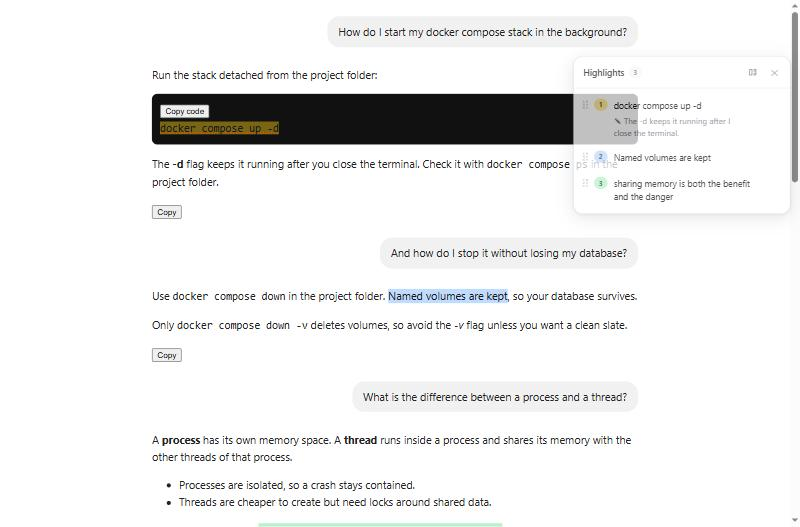
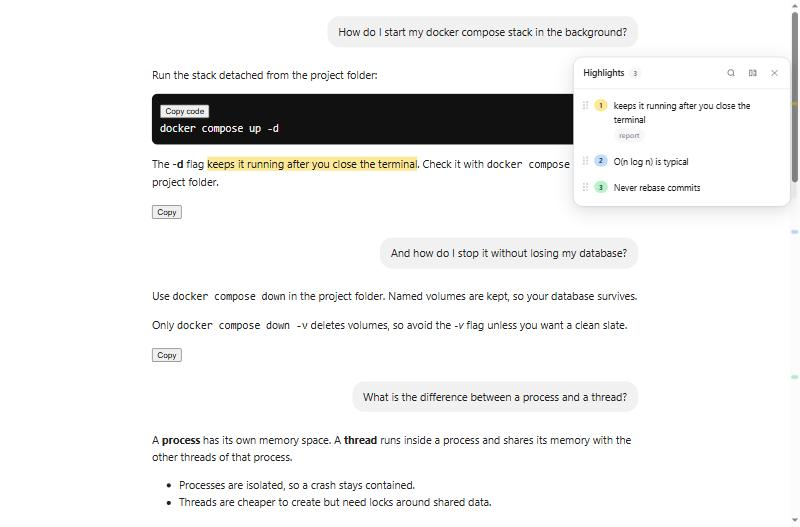
Add undo for deletes and highlight ticks beside the scrollbar
Deleting a highlight now shows "Deleted ... Undo" for a few seconds,
both in the page and in the library, and restores it with everything
intact.

A thin strip on the right edge shows where the highlights sit in the
page, with a box for the part on screen; clicking a tick jumps there.

diff --git a/src/content/controller.ts b/src/content/controller.ts
@@ -27,6 +27,7 @@ const JUMP_POLL_MS = 300;
 const LOAD_OLDER_STEPS = 12;
 const LOAD_OLDER_WAIT_MS = 400;
 const SEARCH_RESULTS = 8;
+const UNDO_MS = 7000;
 const MARK_HASH = '#bookmark=';
 // Approximate note card size, used to keep it on screen. Matches .cm-card in styles.css.
 const CARD_WIDTH = 300;
@@ -54,10 +55,24 @@ export interface NoteCardState {
   focusNote: boolean;
 }
 
+/** A highlight's place in the whole page, for the ticks beside the scrollbar. */
+export interface Tick {
+  id: string;
+  color: HighlightColor;
+  /** 0 at the top of the page, 1 at the bottom. */
+  at: number;
+  label: string;
+}
+
 export interface ViewState {
   conversationId: string | null;
   /** Highlights in the user's order. */
   items: PanelItem[];
+  ticks: Tick[];
+  /** Which slice of the page is on screen, as fractions, for the minimap. */
+  viewport: { top: number; height: number } | null;
+  /** A just-deleted highlight that can still be brought back. */
+  undo: { label: string } | null;
   /** Viewport position of the current text selection, when it can be highlighted. */
   selection: { top: number; bottom: number; left: number; streaming: boolean } | null;
   card: NoteCardState | null;
@@ -78,6 +93,9 @@ export class ChatmarksController {
   private state: ViewState = {
     conversationId: null,
     items: [],
+    ticks: [],
+    viewport: null,
+    undo: null,
     selection: null,
     card: null,
     search: null,
@@ -87,6 +105,10 @@ export class ChatmarksController {
   };
   /** Every highlight from every site, loaded when the search box opens. */
   private allMarks: Mark[] = [];
+  /** Kept for a few seconds after a delete, so it can be undone. */
+  private deleted: Mark | null = null;
+  /** The element the page scrolls in, found again on every refresh. */
+  private scroller: HTMLElement | null = null;
   private readonly listeners = new Set<() => void>();
   private readonly painter = new HighlightPainter();
   private marks: Mark[] = [];
@@ -212,12 +234,34 @@ export class ChatmarksController {
 
   async remove(id: string): Promise<void> {
     const conversationId = this.state.conversationId;
-    if (!conversationId) return;
+    const mark = this.marks.find((m) => m.id === id);
+    if (!conversationId || !mark) return;
     if (this.state.card?.markId === id) this.closeCard();
     this.painter.clearFlash();
+
+    this.deleted = mark;
     this.marks = this.marks.filter((m) => m.id !== id);
     this.refresh();
+    this.setState({ undo: { label: mark.label || mark.snapshot } });
+    this.ctx.setTimeout(() => {
+      if (this.deleted?.id === id) {
+        this.deleted = null;
+        this.setState({ undo: null });
+      }
+    }, UNDO_MS);
+
     await removeMark(this.adapter.site, conversationId, id);
+  }
+
+  /** Brings back the highlight deleted a moment ago. */
+  undoDelete(): void {
+    const mark = this.deleted;
+    if (!mark) return;
+    this.deleted = null;
+    this.marks = [...this.marks, mark];
+    this.setState({ undo: null });
+    this.refresh();
+    void upsertMark(mark);
   }
 
   jump(id: string): void {
@@ -455,12 +499,33 @@ export class ChatmarksController {
     const brokenLayout =
       !!conversationId && messages.length === 0 && Date.now() - this.openedAt > BROKEN_AFTER_MS;
     const cardStillValid = card && this.marks.some((m) => m.id === card.markId);
+    this.scroller = this.findScroller();
     this.setState({
       items: sortByOrder(this.marks).map((mark) => ({ mark, found: this.resolved.has(mark.id) })),
+      ticks: this.buildTicks(resolved),
+      viewport: viewportSlice(this.scroller),
       card: cardStillValid ? { ...card, position: this.cardPosition(card.markId) } : null,
       health: brokenLayout ? 'no-messages' : 'ok',
       // "System" means matching the page we're sitting on, which is what looks right in context.
       dark: this.theme === 'system' ? isDarkPage() : this.theme === 'dark',
+    });
+  }
+
+  /** Where each highlight sits in the whole page, as a fraction, for the ticks. */
+  private buildTicks(resolved: ResolvedMark[]): Tick[] {
+    const scroller = this.scroller;
+    if (!scroller) return [];
+    const scrollerTop = scroller === document.scrollingElement ? 0 : scroller.getBoundingClientRect().top;
+    const height = Math.max(scroller.scrollHeight, 1);
+
+    return resolved.map(({ mark, range }) => {
+      const offset = range.getBoundingClientRect().top - scrollerTop + scroller.scrollTop;
+      return {
+        id: mark.id,
+        color: mark.color,
+        at: clamp(offset / height, 0, 1),
+        label: mark.label || mark.snapshot,
+      };
     });
   }
 
@@ -553,11 +618,14 @@ export class ChatmarksController {
     }
   };
 
-  // Scroll events already arrive at most once per frame, so repositioning right away is cheap.
+  // Scroll events already arrive at most once per frame, so updating right away is cheap.
   private onViewportChange = (): void => {
     this.clearSelectionDraft();
     const card = this.state.card;
-    if (card?.position) this.setState({ card: { ...card, position: this.cardPosition(card.markId) } });
+    this.setState({
+      viewport: viewportSlice(this.scroller),
+      card: card?.position ? { ...card, position: this.cardPosition(card.markId) } : card,
+    });
   };
 
   private notify(notice: string): void {
@@ -571,6 +639,15 @@ export class ChatmarksController {
     this.state = { ...this.state, ...patch };
     for (const listener of this.listeners) listener();
   }
+}
+
+function viewportSlice(scroller: HTMLElement | null): ViewState['viewport'] {
+  if (!scroller) return null;
+  const height = Math.max(scroller.scrollHeight, 1);
+  return {
+    top: clamp(scroller.scrollTop / height, 0, 1),
+    height: clamp(scroller.clientHeight / height, 0.03, 1),
+  };
 }
 
 function delay(ctx: ContentScriptContext, ms: number): Promise<void> {

diff --git a/src/entrypoints/library/Library.tsx b/src/entrypoints/library/Library.tsx
@@ -8,7 +8,7 @@ import { sortByOrder } from '../../core/order';
 import { HIGHLIGHT_COLORS } from '../../core/painter';
 import { searchMarks } from '../../core/search';
 import { siteLabel } from '../../core/sites';
-import { importMarks, loadAllMarks, removeMark, watchAllMarks } from '../../core/store';
+import { importMarks, loadAllMarks, removeMark, upsertMark, watchAllMarks } from '../../core/store';
 import { countTags, sameTag } from '../../core/tags';
 import { applyTheme, loadTheme, saveTheme, watchTheme, type Theme } from '../../core/theme';
 import type { Mark } from '../../core/types';
@@ -34,6 +34,7 @@ export function Library() {
   const [activeTag, setActiveTag] = useState<string | null>(null);
   const [copiedId, setCopiedId] = useState<string | null>(null);
   const [message, setMessage] = useState<string | null>(null);
+  const [deleted, setDeleted] = useState<Mark | null>(null);
   const [theme, setTheme] = useState<Theme>('system');
   const fileInput = useRef<HTMLInputElement>(null);
 
@@ -79,6 +80,20 @@ export function Library() {
     await navigator.clipboard.writeText(linkTo(mark));
     setCopiedId(mark.id);
     setTimeout(() => setCopiedId((id) => (id === mark.id ? null : id)), 1500);
+  };
+
+  const deleteMark = async (mark: Mark) => {
+    setMessage(null);
+    setDeleted(mark);
+    setTimeout(() => setDeleted((current) => (current?.id === mark.id ? null : current)), 7000);
+    await removeMark(mark.site, mark.conversationId, mark.id);
+  };
+
+  const undoDelete = async () => {
+    const mark = deleted;
+    if (!mark) return;
+    setDeleted(null);
+    await upsertMark(mark);
   };
 
   const download = (contents: string, type: string, extension: string) => {
@@ -198,10 +213,20 @@ export function Library() {
             onChange={(event) => void importBackup(event)}
           />
         </div>
-        {message && (
+        {deleted ? (
           <p class="lib-message" role="status">
-            {message}
+            Deleted “{deleted.snapshot.slice(0, 48)}
+            {deleted.snapshot.length > 48 ? '…' : ''}”{' '}
+            <button class="lib-undo" onClick={() => void undoDelete()}>
+              Undo
+            </button>
           </p>
+        ) : (
+          message && (
+            <p class="lib-message" role="status">
+              {message}
+            </p>
+          )
         )}
       </header>
 
@@ -247,7 +272,7 @@ export function Library() {
                 </button>
                 <button
                   class="lib-action lib-danger"
-                  onClick={() => void removeMark(mark.site, mark.conversationId, mark.id)}
+                  onClick={() => void deleteMark(mark)}
                   title="Delete this highlight"
                 >
                   Delete

diff --git a/src/ui/App.tsx b/src/ui/App.tsx
@@ -29,7 +29,16 @@ export function App({ controller }: Props) {
       {state.card && cardMark && (
         <NoteCard key={cardMark.id} card={state.card} mark={cardMark} controller={controller} />
       )}
+      <Minimap state={state} controller={controller} />
       {state.search && <SearchPalette search={state.search} controller={controller} />}
+      {state.undo && (
+        <div class="cm-undo" role="status">
+          <span class="cm-undo-text">Deleted “{state.undo.label}”</span>
+          <button class="cm-undo-button" onClick={() => controller.undoDelete()}>
+            Undo
+          </button>
+        </div>
+      )}
       {state.notice && (
         <div class="cm-notice" role="status">
           {state.notice}
@@ -399,6 +408,31 @@ function Panel({ state, controller }: Props & { state: ViewState }) {
         </p>
       )}
     </section>
+  );
+}
+
+/** Ticks beside the scrollbar showing where the highlights are on this page. */
+function Minimap({ state, controller }: Props & { state: ViewState }) {
+  if (state.ticks.length === 0) return null;
+  return (
+    <div class="cm-minimap" aria-label="Highlights on this page">
+      {state.viewport && (
+        <span
+          class="cm-minimap-view"
+          style={{ top: `${state.viewport.top * 100}%`, height: `${state.viewport.height * 100}%` }}
+        />
+      )}
+      {state.ticks.map((tick) => (
+        <button
+          key={tick.id}
+          class="cm-tick"
+          style={{ top: `${tick.at * 100}%`, background: HIGHLIGHT_COLORS[tick.color] }}
+          title={tick.label}
+          aria-label={`Go to highlight: ${tick.label}`}
+          onClick={() => controller.jump(tick.id)}
+        />
+      ))}
+    </div>
   );
 }
 

diff --git a/src/ui/styles.css b/src/ui/styles.css
@@ -585,6 +585,79 @@
   border-top: 1px solid var(--cm-border);
 }
 
+/* Ticks beside the scrollbar */
+
+.cm-minimap {
+  position: fixed;
+  right: 2px;
+  top: 12vh;
+  bottom: 12vh;
+  width: 12px;
+  z-index: 2147483646;
+}
+
+.cm-minimap-view {
+  position: absolute;
+  left: 3px;
+  right: 3px;
+  background: var(--cm-hover);
+  border-radius: 3px;
+}
+
+.cm-tick {
+  position: absolute;
+  left: 1px;
+  width: 10px;
+  height: 5px;
+  margin-top: -2px;
+  border-radius: 3px;
+  box-shadow: inset 0 0 0 1px var(--cm-border);
+  transition: transform 0.12s ease;
+}
+
+.cm-tick:hover {
+  transform: scaleX(1.6);
+}
+
+/* Undo after deleting */
+
+.cm-undo {
+  position: fixed;
+  z-index: 2147483647;
+  left: 50%;
+  bottom: 96px;
+  max-width: 420px;
+  display: flex;
+  align-items: center;
+  gap: 12px;
+  padding: 9px 10px 9px 15px;
+  background: var(--cm-bg);
+  border: 1px solid var(--cm-border);
+  border-radius: 10px;
+  box-shadow: var(--cm-shadow);
+  transform: translateX(-50%);
+  animation: cm-appear 0.12s ease-out;
+}
+
+.cm-undo-text {
+  overflow: hidden;
+  white-space: nowrap;
+  text-overflow: ellipsis;
+  color: var(--cm-muted);
+}
+
+.cm-undo-button {
+  flex: none;
+  padding: 4px 10px;
+  font-weight: 600;
+  color: var(--cm-accent);
+  border-radius: 7px;
+}
+
+.cm-undo-button:hover {
+  background: var(--cm-hover);
+}
+
 .cm-notice {
   left: 50%;
   bottom: 96px;

diff --git a/src/entrypoints/library/library.css b/src/entrypoints/library/library.css
@@ -201,6 +201,22 @@ body {
   font-size: 13px;
 }
 
+.lib-undo {
+  padding: 2px 8px;
+  font: inherit;
+  font-size: 13px;
+  font-weight: 600;
+  color: var(--lib-accent);
+  background: none;
+  border: 0;
+  border-radius: 7px;
+  cursor: pointer;
+}
+
+.lib-undo:hover {
+  background: var(--lib-hover);
+}
+
 .lib-empty {
   margin: 56px 0;
   text-align: center;

diff --git a/README.md b/README.md
@@ -15,6 +15,8 @@ Highlight anything you read — AI chats or ordinary web pages — add a note, a
 - Tag a highlight in the same box. Tags pull related highlights together across chats and sites.
 - A side panel lists this page's highlights, numbered in the order you made them. Drag the ⋮⋮ grip to reorder, hover an entry to light up its highlight, click it to jump there.
 - In a long chat, jumping to a highlight in a part the site hasn't loaded yet scrolls up for you until it finds it.
+- Coloured ticks beside the scrollbar show where your highlights are on the page, with a box marking what's on screen. Click a tick to jump there.
+- Deleting a highlight leaves an **Undo** for a few seconds, in the page and in the library.
 - Highlighting waits while a reply is still being written.
 
 **Afterwards**
